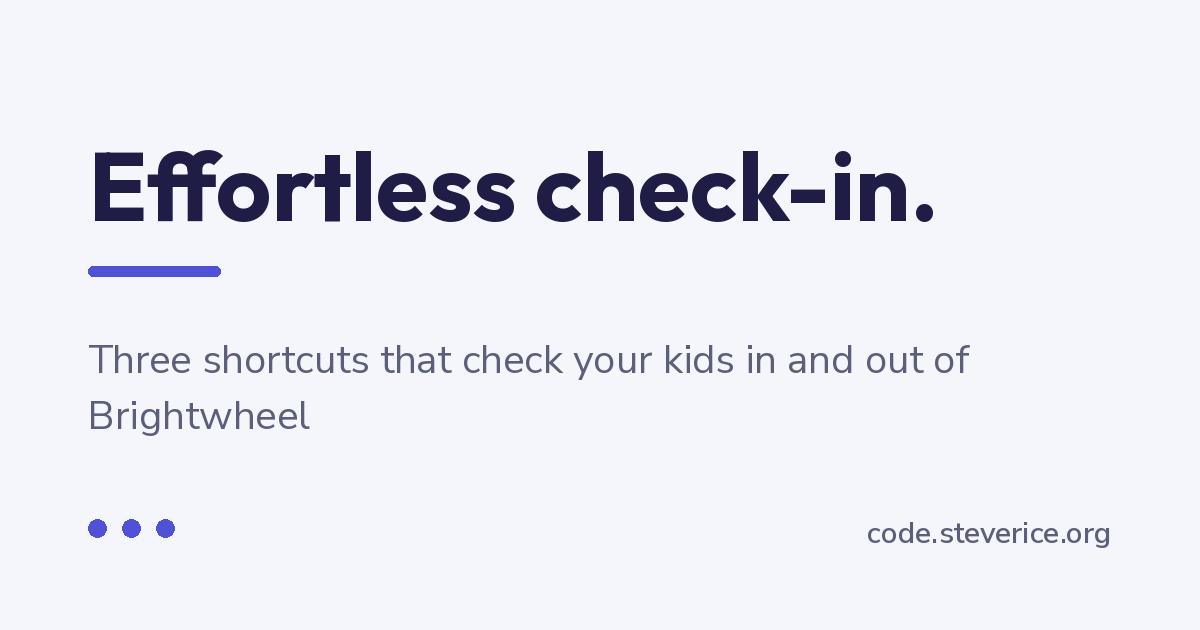
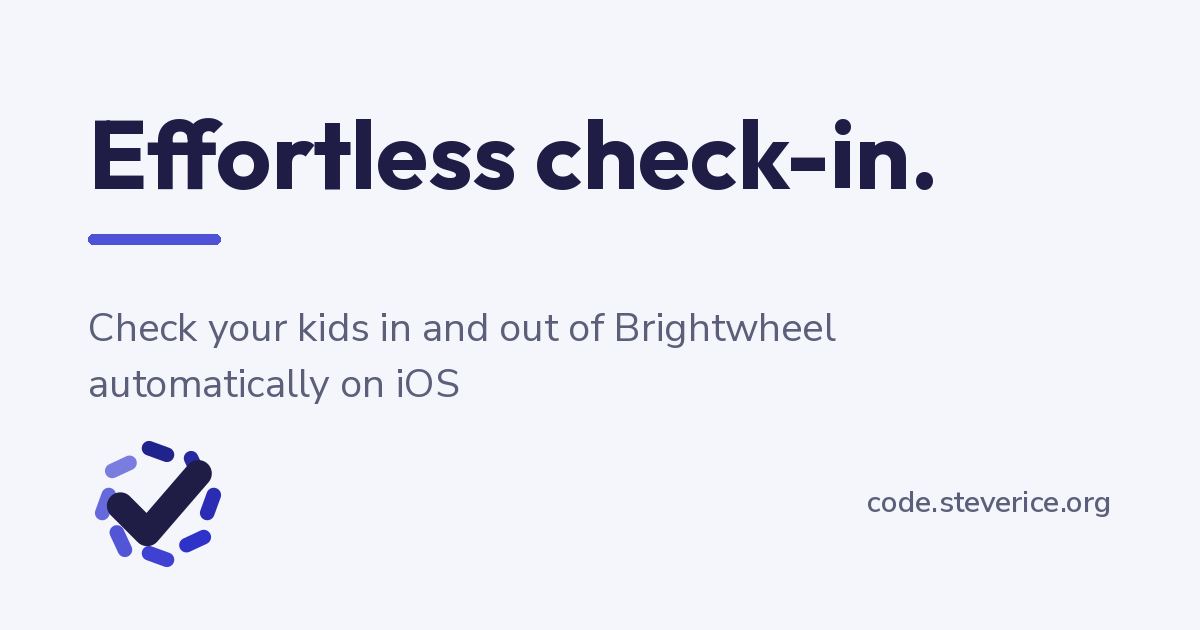
💄 style: the card says what the shortcuts do, and carries the site's mark
The standfirst becomes "Check your kids in and out of Brightwheel automatically on iOS" — it names the platform, which the old line left to be inferred. The page's own visible standfirst is deliberately untouched; only the card and the `og:image:alt` that describes it change, and the alt has to match the picture or it describes something that no longer exists.

The three dots in the footer are replaced by the site's mark, rendered from `make_icons` rather than redrawn so the card cannot drift from the favicon. At the size the dots occupied, the ring collapsed into the same speckle that makes the 16px favicon drop it — and on a 1200px card there is no reason to be small, so the mark is 140px. That did not fit by scaling alone: the old rhythm left about 74px between the standfirst and the bottom margin, so the headline moves up and the mark sits closer to the edge than the text margin does. A guard now fails the render outright if the mark would ever overlap the standfirst, rather than shipping a collision nobody looked at.

Claude-Session: https://claude.ai/code/session_0197VdXKCQPr6GnCqCwpzPn6

diff --git a/docs/index.html b/docs/index.html
@@ -26,7 +26,7 @@
 <meta property="og:image:type" content="image/png">
 <meta property="og:image:width" content="1200">
 <meta property="og:image:height" content="630">
-<meta property="og:image:alt" content="Effortless check-in. Three shortcuts that check your kids in and out of Brightwheel.">
+<meta property="og:image:alt" content="Effortless check-in. Check your kids in and out of Brightwheel automatically on iOS.">
 <meta name="twitter:card" content="summary_large_image">
 
 <link rel="preconnect" href="https://fonts.googleapis.com">

diff --git a/make_og_image.py b/make_og_image.py
@@ -9,7 +9,7 @@ domain. This draws the missing picture at 1200x630 — the 1.91:1 that every
 scraper crops toward — and writes it to `docs/img/og.png`.
 
 The card is the page's own hero, rebuilt as a still: the headline, a brand rule,
-the standfirst, three dots for three shortcuts, and the domain. It carries **no
+the standfirst, the site's own mark, and the domain. It carries **no
 child's name and no school**, unlike the notification banners further down the
 page, because an `og:image` is fetched and cached by every service a link is
 ever pasted into and cannot be recalled from any of them.
@@ -34,6 +34,8 @@ from pathlib import Path
 
 from PIL import Image, ImageDraw, ImageFont
 
+import make_icons
+
 REPO = Path(__file__).resolve().parent
 OUT = REPO / "docs" / "img" / "og.png"
 FONT_CACHE = REPO / ".fonts"
@@ -55,8 +57,12 @@ BRAND = "#4f52d6"
 # first one lacks; PIL does not, and Outfit has no U+2011, so it drew a tofu box
 # until this was an ASCII hyphen. Nothing wraps in a raster anyway.
 HEADLINE = "Effortless check-in."
-STANDFIRST = "Three shortcuts that check your kids in and out of Brightwheel"
+STANDFIRST = "Check your kids in and out of Brightwheel automatically on iOS"
 DOMAIN = "code.steverice.org"
+ICON = 140           # big enough that the ring resolves rather than speckles
+FOOT_PAD = 56        # the mark sits closer to the edge than the text margin, so
+                     # it has room to grow without crowding the standfirst
+TOP = 118            # headline baseline, pulled up to free that room
 
 # Variable fonts from the upstream repo. The bracketed axis list is part of the
 # filename, so it has to be percent-encoded to survive the URL.
@@ -140,7 +146,7 @@ def main():
 
     # Headline, optically flush left: textbbox reports the ink, so drawing at
     # -bbox[0] puts the glyph's left edge on the margin rather than its sidebearing.
-    top = 150
+    top = TOP
     bbox = d.textbbox((0, 0), HEADLINE, font=headline)
     d.text((PAD - bbox[0], top - bbox[1]), HEADLINE, font=headline, fill=INK)
     headline_bottom = top + (bbox[3] - bbox[1])
@@ -155,13 +161,24 @@ def main():
         d.text((PAD, y), line, font=stand, fill=MUTED)
         y += 56
 
-    # Footer: three dots for three shortcuts, and the domain opposite.
-    foot = H - PAD - 14
-    for i in range(3):
-        cx = PAD + 9 + i * 34
-        d.ellipse([cx - 9, foot - 9, cx + 9, foot + 9], fill=BRAND)
+    # Footer: the site's own mark, and the domain opposite. Rendered from
+    # make_icons rather than redrawn, so the card cannot drift from the favicon.
+    # Drawn large enough for the ring to resolve — at the size the three dots
+    # used to occupy it collapsed into the same speckle that makes the 16px
+    # favicon drop the ring entirely, and here there is no reason to be small.
+    mark = make_icons.rasterize(make_icons.ring_svg(themed=False), ICON)
+    mark_top = H - FOOT_PAD - ICON
+    if mark_top < y + 8:
+        sys.exit(f"the mark at {ICON}px would overlap the standfirst "
+                 f"(mark top {mark_top}, text bottom {y}) — shrink ICON, "
+                 f"raise TOP, or cut FOOT_PAD")
+    img.paste(mark, (PAD, mark_top), mark)
+    # Domain centered on the mark rather than sharing a baseline with it: the
+    # mark has no baseline, so optical centering is the only alignment there is.
     dw = width(d, DOMAIN, domain)
-    d.text((W - PAD - dw, foot - 16), DOMAIN, font=domain, fill=MUTED)
+    dbox = d.textbbox((0, 0), DOMAIN, font=domain)
+    d.text((W - PAD - dw, mark_top + ICON // 2 - (dbox[3] + dbox[1]) // 2),
+           DOMAIN, font=domain, fill=MUTED)
 
     OUT.parent.mkdir(parents=True, exist_ok=True)
     img.save(OUT, "PNG", optimize=True)
